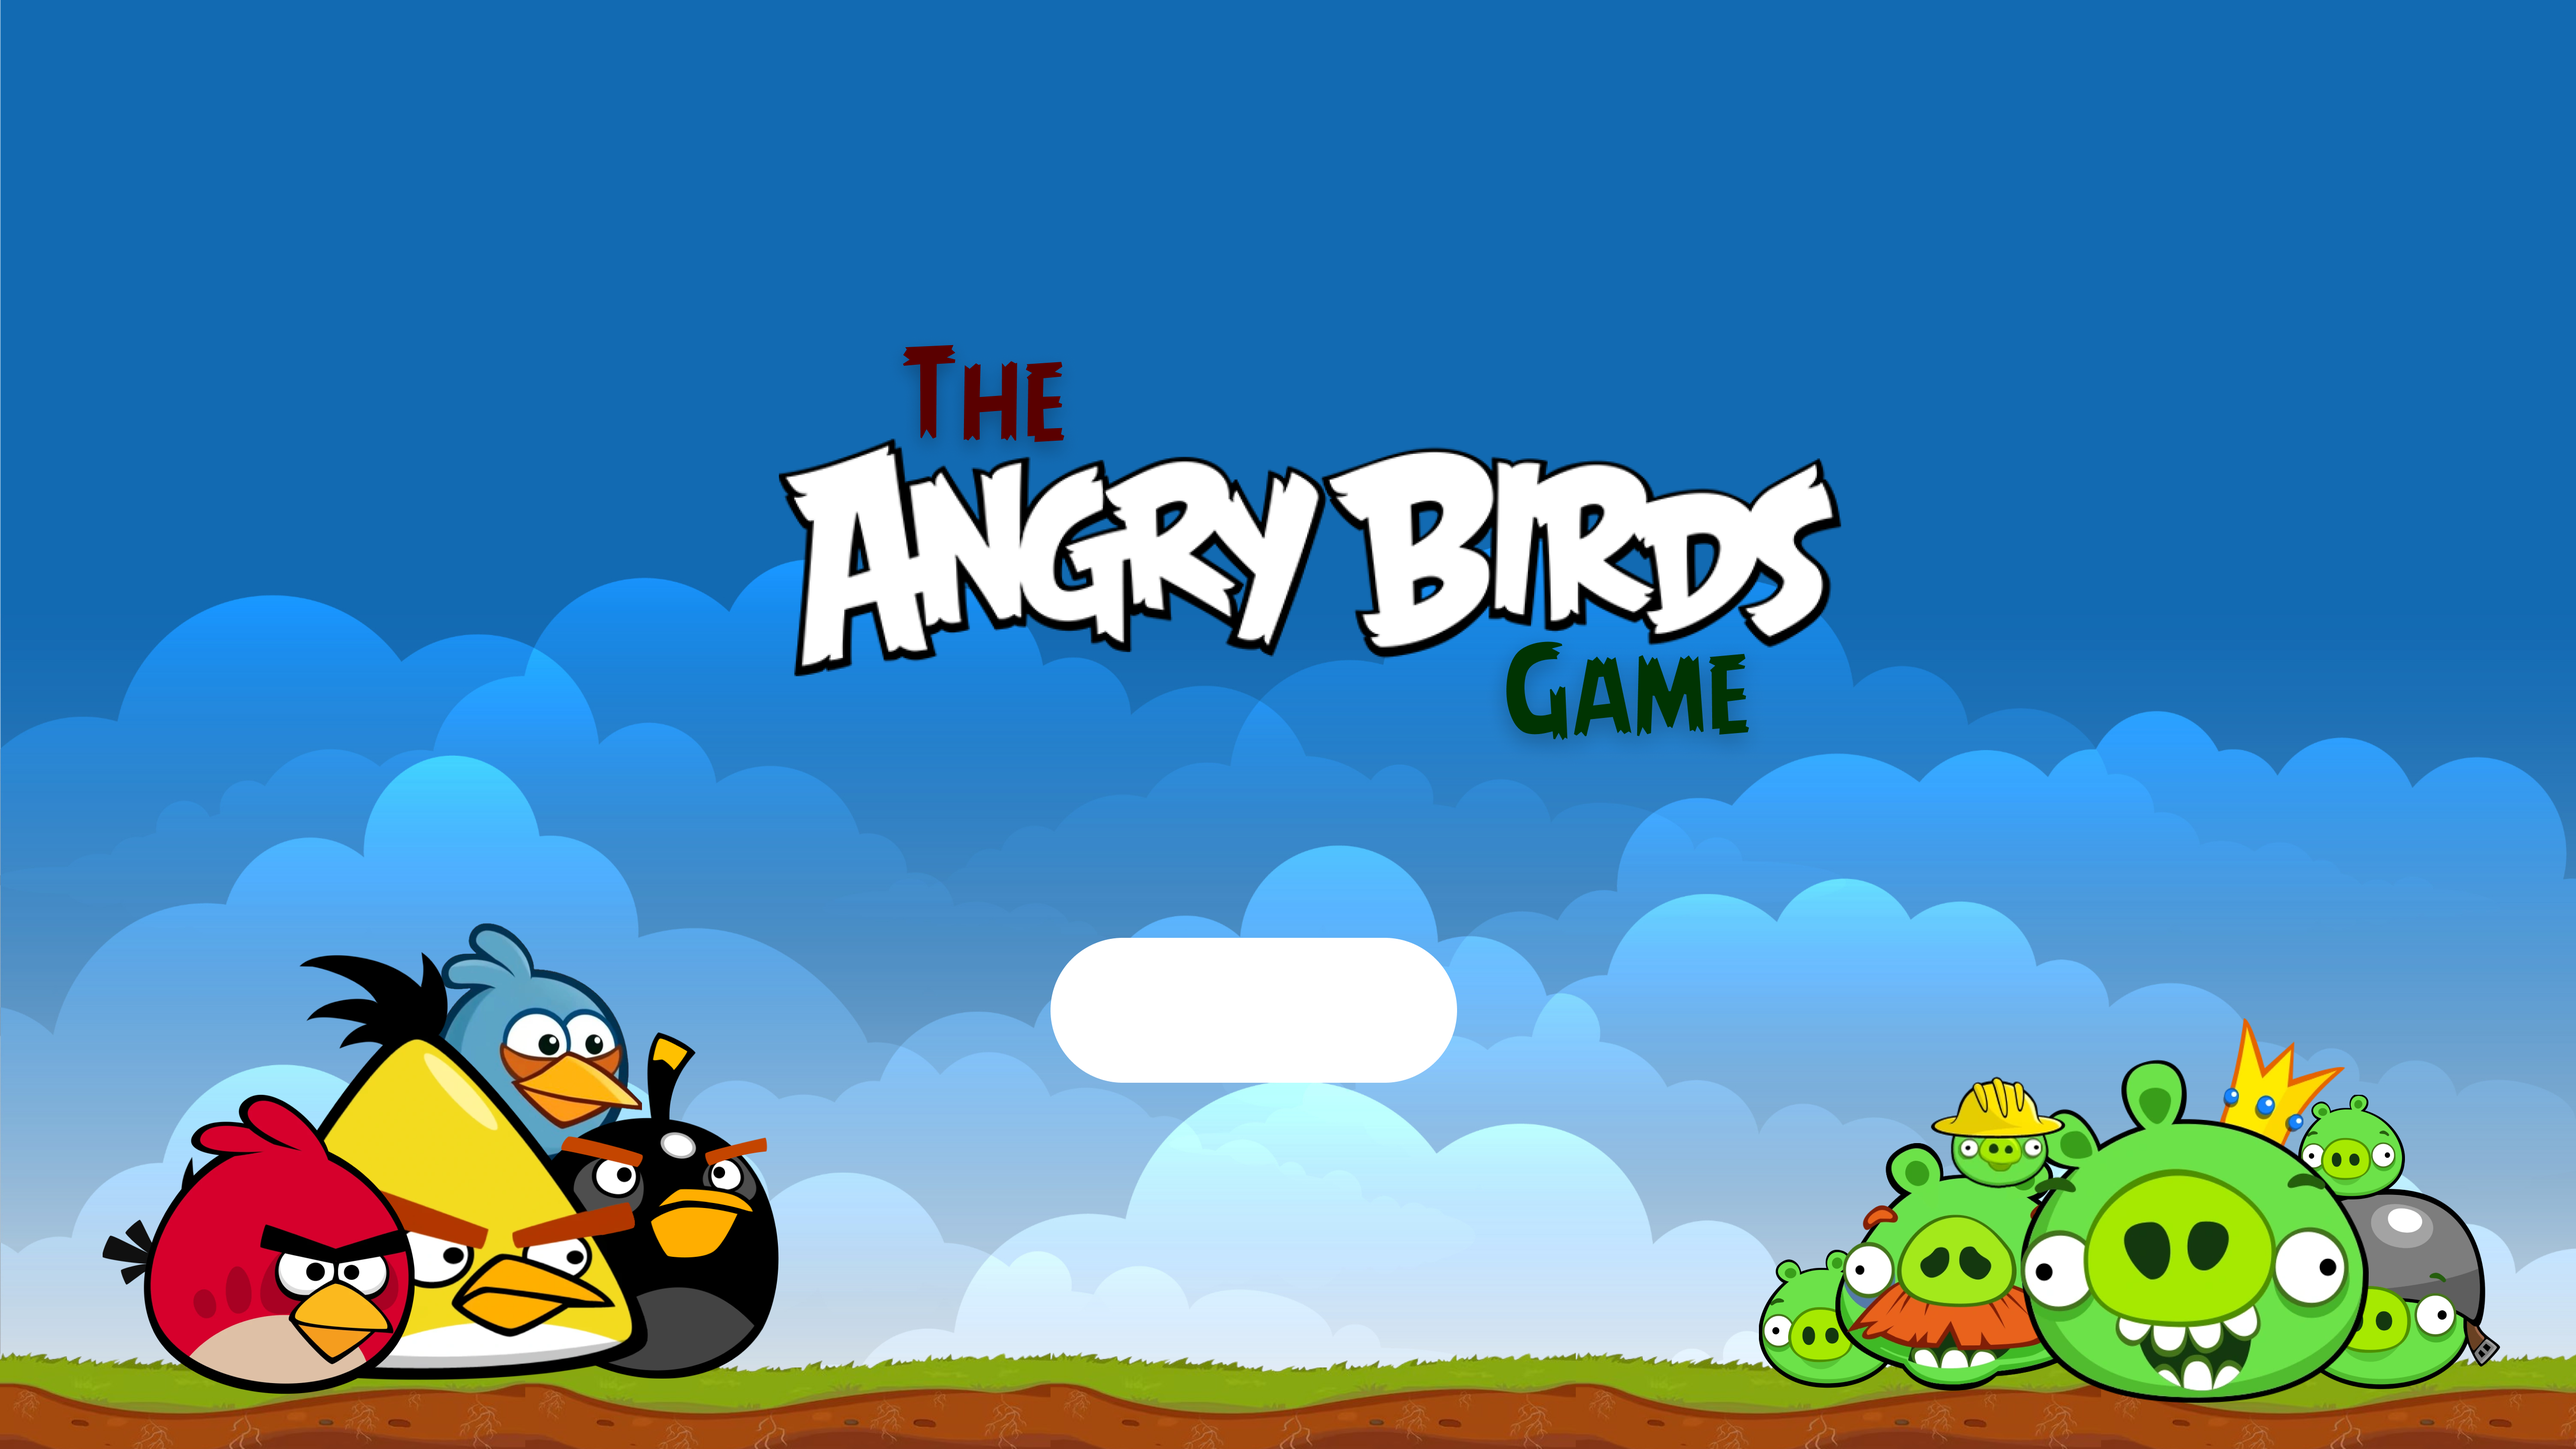
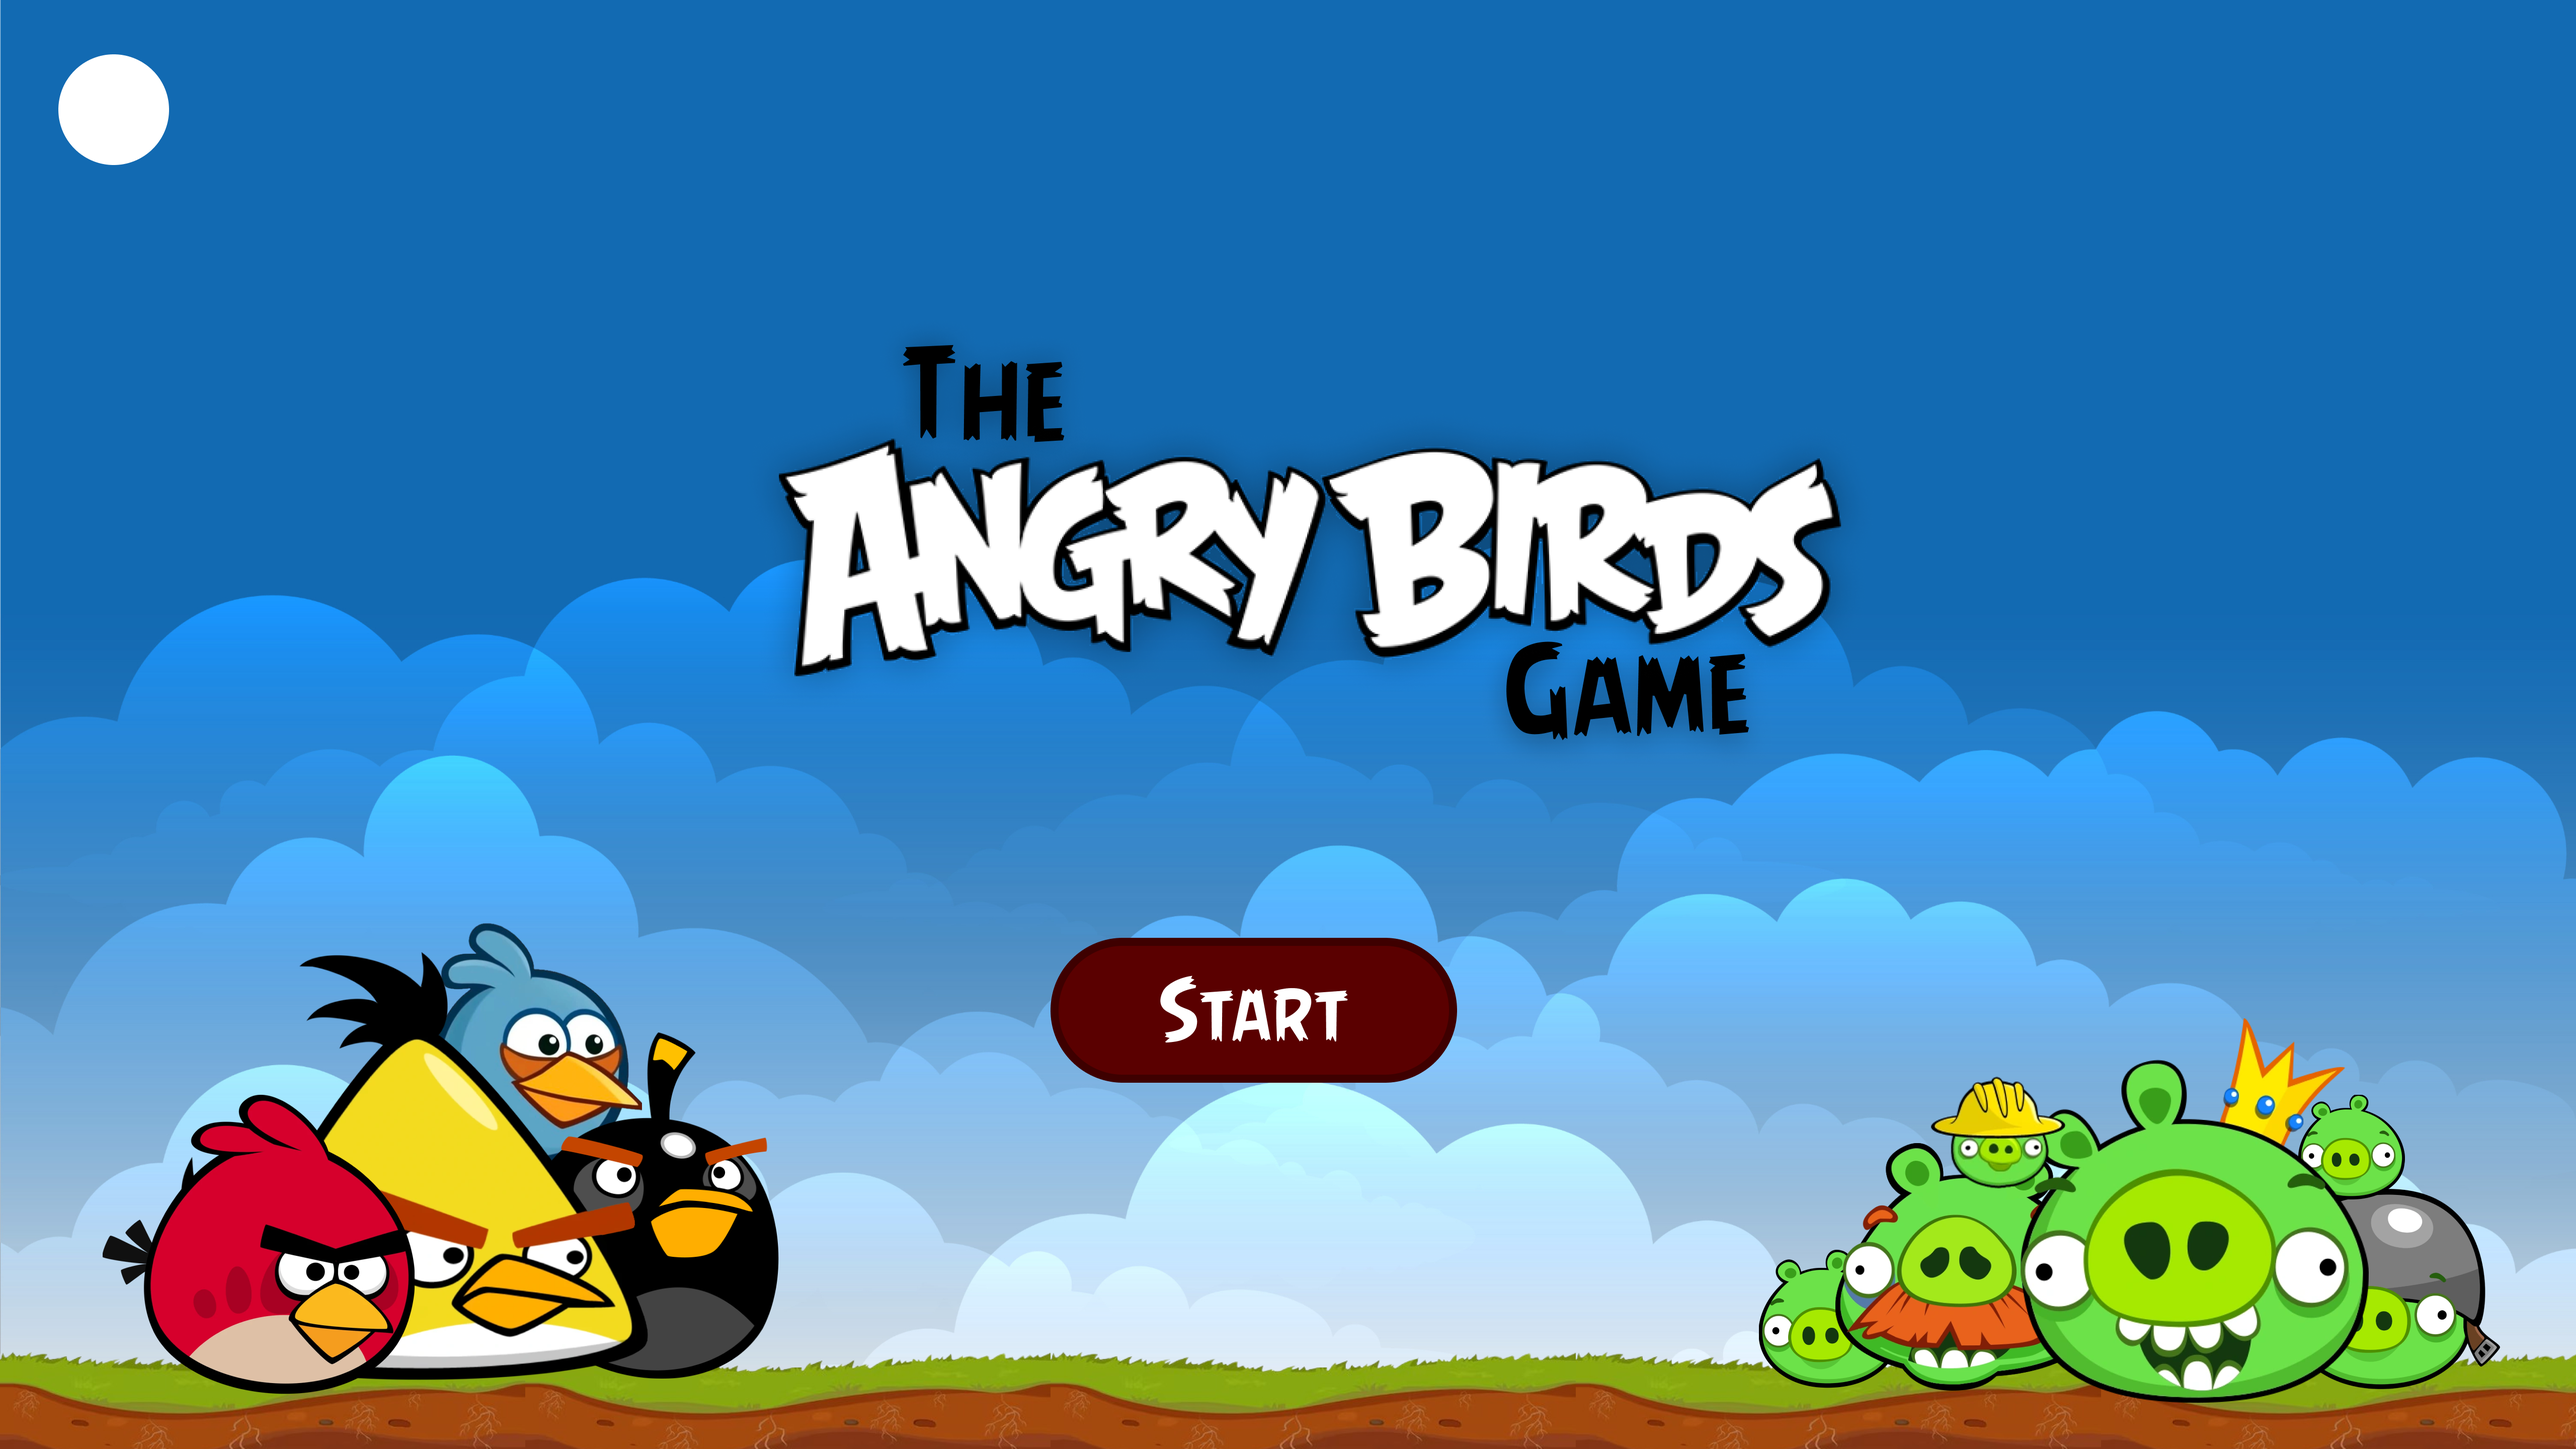
adding hover featuress

diff --git a/core/src/main/java/com/unreal/angrybirds/SeasonPage.java b/core/src/main/java/com/unreal/angrybirds/SeasonPage.java
@@ -9,6 +9,7 @@ import com.badlogic.gdx.graphics.g2d.Sprite;
 import com.badlogic.gdx.graphics.g2d.SpriteBatch;
 import com.badlogic.gdx.graphics.g2d.TextureRegion;
 import com.badlogic.gdx.scenes.scene2d.InputEvent;
+import com.badlogic.gdx.scenes.scene2d.InputListener;
 import com.badlogic.gdx.scenes.scene2d.Stage;
 import com.badlogic.gdx.scenes.scene2d.ui.ImageButton;
 import com.badlogic.gdx.scenes.scene2d.utils.ClickListener;
@@ -23,7 +24,18 @@ public class SeasonPage implements Screen {
     private Stage stage;
     private SpriteBatch batch;
     private Sprite sprite;
-    private ImageButton Startbutton;
+
+    private ImageButton Settingsbutton;
+    private Texture Settings;
+    private Texture HoverSettings;
+
+    private ImageButton SpaceButton;
+    private Texture Space;
+    private Texture HoverSpace;
+
+    private ImageButton EarthButton;
+    private Texture Earth;
+    private Texture HoverEarth;
 
     public SeasonPage(Main game) {
         this.Game = game;
@@ -41,9 +53,60 @@ public class SeasonPage implements Screen {
         sprite.setPosition(0, 0);
         sprite.setSize(Gdx.graphics.getWidth(), Gdx.graphics.getHeight());
 
-//        Startbutton = new ImageButton(new TextureRegionDrawable(new TextureRegion(new Texture("assets/data/start.png"))));
-//        Startbutton.setPosition(522,720-466-72);
-//        stage.addActor(Startbutton);
+        Settings = new Texture("assets/Settings.png");
+        HoverSettings = new Texture("assets/HoverSettings.png");
+        ImageButton.ImageButtonStyle SettingsStyle = new ImageButton.ImageButtonStyle();
+        SettingsStyle.up = new TextureRegionDrawable(new TextureRegion(Settings));
+        SettingsStyle.over = new TextureRegionDrawable(new TextureRegion(HoverSettings));
+        Settingsbutton = new ImageButton(SettingsStyle);
+        Settingsbutton.setPosition(29,720-27-55);
+        Settingsbutton.setSize(55,55);
+        stage.addActor(Settingsbutton);
+        Settingsbutton.addListener(new InputListener(){
+            @Override
+            public boolean touchDown(InputEvent event, float x, float y, int pointer, int button) {
+                System.out.println("Button is clicked!!!!!!!!!");
+//                Game.setScreen(new SeasonPage(Game));
+                return true;
+            }
+        });
+
+        Space = new Texture("assets/Space.png");
+        HoverSpace = new Texture("assets/HoverSpace.png");
+        ImageButton.ImageButtonStyle SpaceStyle = new ImageButton.ImageButtonStyle();
+        SpaceStyle.up = new TextureRegionDrawable(new TextureRegion(Space));
+        SpaceStyle.over = new TextureRegionDrawable(new TextureRegion(HoverSpace));
+        SpaceButton = new ImageButton(SpaceStyle);
+        SpaceButton.setPosition(664,720-205-275);
+        SpaceButton.setSize(285,275);
+        stage.addActor(SpaceButton);
+        SpaceButton.addListener(new InputListener(){
+            @Override
+            public boolean touchDown(InputEvent event, float x, float y, int pointer, int button) {
+                System.out.println("Button is clicked!!!!!!!!!");
+//                Game.setScreen(new SeasonPage(Game));
+                return true;
+            }
+        });
+
+        Earth = new Texture("assets/Earth.png");
+        HoverEarth = new Texture("assets/HoverEarth.png");
+        ImageButton.ImageButtonStyle EarthStyle = new ImageButton.ImageButtonStyle();
+        EarthStyle.up = new TextureRegionDrawable(new TextureRegion(Earth));
+        EarthStyle.over = new TextureRegionDrawable(new TextureRegion(HoverEarth));
+        EarthButton = new ImageButton(EarthStyle);
+        EarthButton.setPosition(362,720-205-275);
+        EarthButton.setSize(285,275);
+        stage.addActor(EarthButton);
+        EarthButton.addListener(new InputListener(){
+            @Override
+            public boolean touchDown(InputEvent event, float x, float y, int pointer, int button) {
+                System.out.println("Button is clicked!!!!!!!!!");
+//                Game.setScreen(new SeasonPage(Game));
+                return true;
+            }
+        });
+
 
 //        Startbutton.addListener(new InputListener(){
 //            @Override
@@ -64,9 +127,8 @@ public class SeasonPage implements Screen {
         sprite.draw(batch);
         batch.end();
 
-//        stage.act(Gdx.graphics.getDeltaTime());
-//        stage.setDebugAll(true);
-//        stage.draw();
+        stage.act(Gdx.graphics.getDeltaTime());
+        stage.draw();
     }
 
     @Override

diff --git a/core/src/main/java/com/unreal/angrybirds/HomePage.java b/core/src/main/java/com/unreal/angrybirds/HomePage.java
@@ -24,8 +24,11 @@ public class HomePage implements Screen {
     private SpriteBatch batch;
     private Sprite sprite;
     private ImageButton Startbutton;
+    private ImageButton Settingsbutton;
     private Texture Start;
     private Texture HoverStart;
+    private Texture Settings;
+    private Texture HoverSettings;
 
     public HomePage(Main game) {
         this.Game = game;
@@ -45,14 +48,26 @@ public class HomePage implements Screen {
         Start = new Texture("assets/start.png");
         HoverStart = new Texture("assets/hoverStart.png");
 
-        ImageButton.ImageButtonStyle style = new ImageButton.ImageButtonStyle();
-        style.up = new TextureRegionDrawable(new TextureRegion(Start));
-        style.over = new TextureRegionDrawable(new TextureRegion(HoverStart));
+        Settings = new Texture("assets/Settings.png");
+        HoverSettings = new Texture("assets/HoverSettings.png");
 
-        Startbutton = new ImageButton(style);
+        ImageButton.ImageButtonStyle SettingsStyle = new ImageButton.ImageButtonStyle();
+        SettingsStyle.up = new TextureRegionDrawable(new TextureRegion(Settings));
+        SettingsStyle.over = new TextureRegionDrawable(new TextureRegion(HoverSettings));
+
+        ImageButton.ImageButtonStyle Startstyle = new ImageButton.ImageButtonStyle();
+        Startstyle.up = new TextureRegionDrawable(new TextureRegion(Start));
+        Startstyle.over = new TextureRegionDrawable(new TextureRegion(HoverStart));
+
+        Startbutton = new ImageButton(Startstyle);
         Startbutton.setPosition(522,720-466-72);
         Startbutton.setSize(202,72);
         stage.addActor(Startbutton);
+
+        Settingsbutton = new ImageButton(SettingsStyle);
+        Settingsbutton.setPosition(29,720-27-55);
+        Settingsbutton.setSize(55,55);
+        stage.addActor(Settingsbutton);
 
         Startbutton.addListener(new InputListener(){
             @Override
@@ -60,6 +75,15 @@ public class HomePage implements Screen {
                 System.out.println("Button is clicked!!!!!!!!!");
                 System.out.println("Button position: " + Startbutton.getX() + ", " + Startbutton.getY());
                 Game.setScreen(new SeasonPage(Game));
+                return true;
+            }
+        });
+
+        Settingsbutton.addListener(new InputListener(){
+            @Override
+            public boolean touchDown(InputEvent event, float x, float y, int pointer, int button) {
+                System.out.println("Button is clicked!!!!!!!!!");
+//                Game.setScreen(new SeasonPage(Game));
                 return true;
             }
         });
